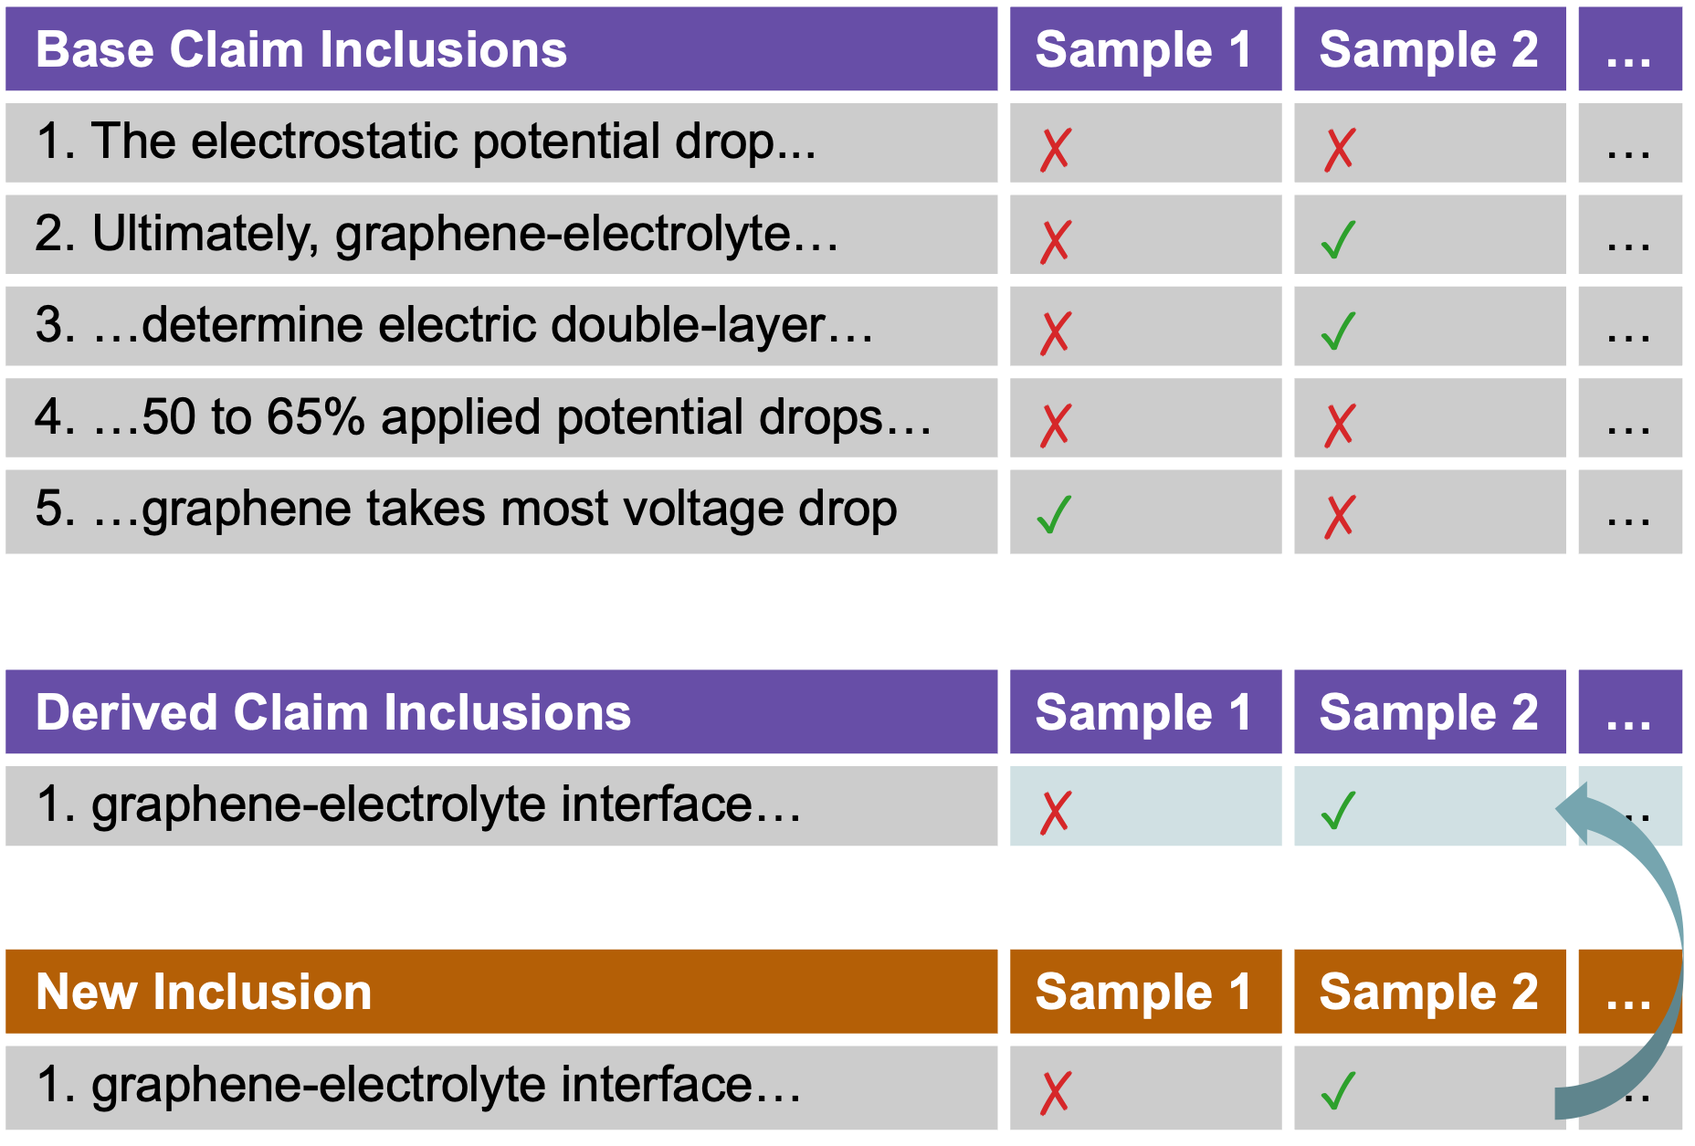
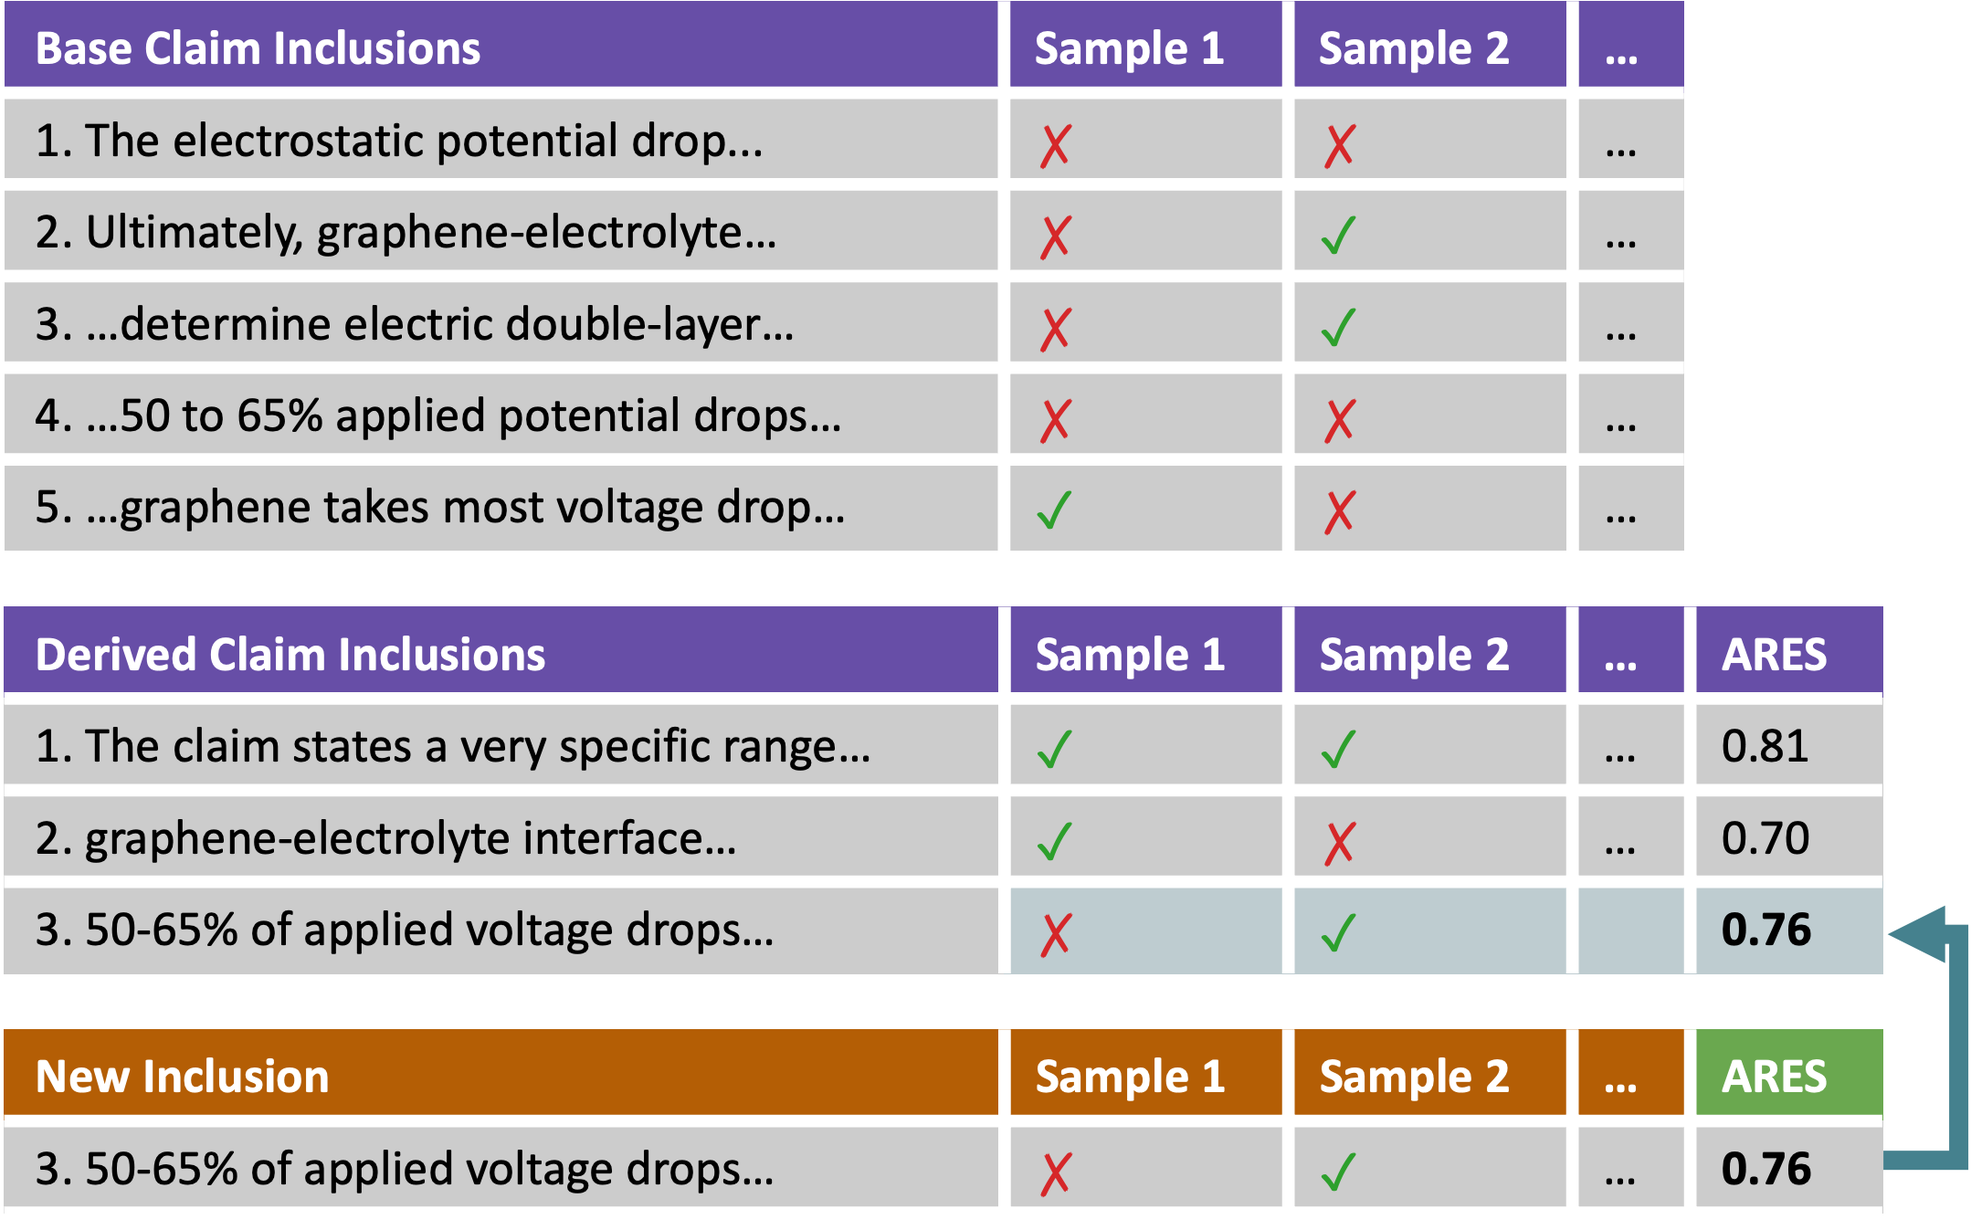
Update ares blog

diff --git a/_posts/2025-10-17-ares.md b/_posts/2025-10-17-ares.md
@@ -5,8 +5,8 @@ excerpt: "We certify the soundness of LLM reasoning chains with probabilistic gu
 header:
   overlay_color: "#000"
   overlay_filter: "0.5"
-  overlay_image: assets/images/ares/ares_banner.png
-  teaser: assets/images/ares/ares_banner.png
+  overlay_image: assets/images/ares/ares_banner_bw.png
+  teaser: assets/images/ares/ares_banner_bw.png
   actions:
     - label: "Paper"
       url: https://arxiv.org/abs/2507.12948
@@ -440,8 +440,8 @@ function plotBarGroupsFromData(d, divID, opts = {}) {
 <script src="https://cdn.plot.ly/plotly-2.29.1.min.js"></script>
 
 > Large language models often make reasoning errors.
-> However,  current LLM-based error detection methods often fail to detect propagated errors because earlier errors can corrupt judgments of downstream reasoning.
-> We introduce **Autoregressive Reasoning Entailment Stability (ARES)**, which evaluates LLM reasoning by estimating each step’s soundness conditioned on the judgements of earlier steps.
+> However,  current LLM-based error detection methods often fail to detect propagated errors because earlier errors can corrupt downstream judgments.
+> To address this, we introduce **Autoregressive Reasoning Entailment Stability (ARES)**, an algorithmic framework for measuring reasoning soundness with statistical guarantees.
 > ARES can reliably detect propagation errors in long reasoning chains that other methods fail to catch.
 
 Large Language Models (LLMs) often produce reasoning chains with errors that propagate, undermining the final outputs.
@@ -495,43 +495,67 @@ Let's look at a concrete example:
   </div>
 </div>
 
-A reasoning step could contain <span style='color:orange; font-weight:bold'>**ungrounded error**</span> that is incorrectly copying information from the context as in Step 3, <span style='color:red; font-weight:bold'>**invalid derivation**</span> mathematically or logically as in Step 4, or <span style='color:#880088; font-weight:bold'>**error propagation**</span> from previous mistakes as in Step 5.
+An <span style='color:orange; font-weight:bold'>**ungrounded error**</span> is when the LLM incorrectly copies information from the context.
+A reasoning step is an <span style='color:red; font-weight:bold'>**invalid derivation**</span> if it consists of a mathematically or logically false operation.
+Finally, a <span style='color:#880088; font-weight:bold'>**propagated error**</span> is a mistake incurred from previous steps.
+
+<!-- A reasoning step could contain <span style='color:orange; font-weight:bold'>**ungrounded error**</span> that is incorrectly copying information from the context as in Step 3, <span style='color:red; font-weight:bold'>**invalid derivation**</span> mathematically or logically as in Step 4, or <span style='color:#880088; font-weight:bold'>**error propagation**</span> from previous mistakes as in Step 5. -->
 
 Current error detection methods, such as LLM judges and Process Reward Models (PRMs), typically attempt to identify all errors at once.
 However, they often fail to detect propagated errors when distracted by invalid premises.
 
 In this work, we introduce **Autoregressive Reasoning Entailment Stability (ARES)**, a probabilistic framework inspired by human reasoning, which assesses each reasoning step inductively.
-It determines a step's soundness by calculating its entailment probability based _only_ on the set of preceding, sound claims, as shown in the figure below.
+It determines a step's soundness by calculating its entailment probability based _only_ on the set of preceding, sound claims.
+<!-- , as shown in the figure below. -->
 We certify ARES with an efficient sampling algorithm that avoids exponential growth in cost as the number of claims increases.
 
 Empirically, we find that our method accurately certifies both sound and unsound reasoning steps, particularly exceling in long chains prone to error propagation.
-<!-- Empirically, we find that our method accurately certifies both sound and unsound reasoning steps.
-It particularly excels in long chains prone to error propagation, where existing LLM-based approaches fail. -->
-
-<!-- ## Detecting Errors via Autoregressive Reasoning Entailment Stability (ARES) -->
-
-<!-- To address limitations of previous methods, we introduce ARES, a probabilistic framework inspired by human reasoning, which assesses each reasoning step inductively. -->
-<!-- To avoid being distracted by invalid claims like previous methods, we introduce ARES, a probabilistic framework inspired by human reasoning, which assesses each reasoning step inductively. -->
 
 ## Detecting Errors via Autoregressive Reasoning Entailment Stability (ARES)
 
-ARES verifies a reasoning chain by assessing each step’s logical consistency with its preceding claims. In other words, it determines whether each derived claim can be justified from what has already been established as sound.
+A natural way to detect reasoning errors in language is through _entailment_: determining whether a hypothesis logically follows from a given premise. We can ask an LLM to judge this entailment for each step in a reasoning chain.
 
-A reasoning chain can be considered as “hard-sound” if every derived claim is perfectly entailed by all preceding claims.
+However, LLMs can make mistakes, and using all previous steps as premises risks carrying earlier errors forward. A more principled approach is to check each claim only against previously verified (sound) information, ensuring that unreliable statements are ignored when evaluating later ones.
 
-**Definition. [Hard Soundness]**  
-A reasoning chain is **hard sound** if all derived claims in the chain are entailed by preceding claims.  
-{: .notice--danger}
+The figure below illustrates this idea in a _binary_ setting: each derived claim is judged as either _sound (✓)_ or _unsound (✗)_ depending on whether it follows logically from the preceding sound claims.
 
-However, this definition is too rigid. We do not want to invalidate the entire reasoning chain because of a single early error, as LLMs can often self-correct in later steps.  
+{% include gallery id="gallery_algo" layout="" caption="**Autoregressive Reasoning Entailment Stability (ARES).** Each reasoning chain is decomposed into base and derived claims. ARES checks each derived claim step-by-step using only previously verified claims as premises. This figure shows the binary case; later we generalize it to probabilistic entailment." %}
 
-The figure below illustrates how ARES verifies reasoning chains by checking each derived claim against previously verified ones. In this **binary case**, a step is either judged sound (✓) or unsound (✗) depending on whether it follows logically from the preceding, sound claims.
+This binary version captures the essence of ARES, which is a way to trace where a reasoning chain remains sound and where it breaks. It’s intuitive, concrete, and easy to visualize, making it ideal for understanding the core mechanism before adding complexity.
+
+However, in natural language, entailment isn’t always black-and-white. For example, if it’s cloudy and the humidity is high, we might say there’s a 60 % chance it will rain, where the hypothesis is *partially* supported.
+
+To handle such uncertainty, we extend ARES to a probabilistic formulation. Instead of marking each step as simply sound or unsound, we estimate its expected entailment probability, conditioned on preceding sound claims. This defines the probabilistic soundness of each reasoning step, inspired by how humans naturally disregard dubious premises and reason under uncertainty.
+
+**Definition [Soundness]** A claim's *soundness* is how much it is entailed *on average* across all sound combinations of preceding claims. Its **reasoning stability rate** $\tau_k$ quantifies this probability for the $k$-th claim.  
+{: .notice--info}
+
+This probabilistic formulation brings two key benefits:  
+1. **Fuzzy entailment:** it models partial support rather than binary truth.  
+2. **Error tolerance:** by averaging entailment rates over subsets of sound claims, it mitigates the impact of earlier mistakes.
+
+<!-- ## Detecting Errors via Autoregressive Reasoning Entailment Stability (ARES)
+
+An intuitive tool to use to detect natural language errors is entailment, which determines whether a hypothesis holds given a premise.
+We can use an LLM to judge the entailment.
+A natural thought for judging a reasoning chain would be checking the entailment of a claim given all preceding claims as the premise.
+
+However, as LLMs can make errors, judging entailment for later claims with such unsound information in the premise is unreliable.
+It would then be more principled to use only previous sound information as the premise.
+
+In addition, entailment for natural language is often fuzzy.
+For example, given that it’s cloudy and the humidity is high, we might say there’s about a 60% chance it will rain.
+In natural language, entailment isn't always black and white; it often reflects degrees of likelihood rather than absolute truth.
+
+One natural way to both be error resistent and capture fuzziness is to use a probabilistic entailment model and certify the soundness of claims inductively.
+
+The figure below illustrates how ARES verifies reasoning chains by checking each derived claim against previously verified ones. In this **binary case** for conceptualization, a step is either judged sound (✓) or unsound (✗) depending on whether it follows logically from the preceding, sound claims.
 
 {% include gallery id="gallery_algo" layout="" caption="**Autoregressive Reasoning Entailment Stability (ARES).** When verifying a reasoning chain, we can break it down into base claims and derived claims. ARES checks each derived claim step-by-step using previously verified claims as premises. This figure shows the binary case; later we generalize it to probabilistic entailment." %}
 
-However, even this binary version remains overly discrete. It does not capture uncertainty in borderline entailment cases, where a claim may be only _partially supported_ by its premises. Moreover, real-world LLMs rarely meet this strict binary criterion due to linguistic ambiguity.
+<!-- However, even this binary version remains overly discrete. It does not capture uncertainty in borderline entailment cases, where a claim may be only _partially supported_ by its premises. Moreover, real-world LLMs rarely meet this strict binary criterion due to linguistic ambiguity. -->
 
-Fortunately, our [previous work](https://debugml.github.io/soft-stability/) provides the right vocabulary to express this concept probabilistically. The key idea is to evaluate the soundness of each reasoning step based on its **expected entailment probability**, conditioned only on preceding sound claims. This approach is inspired by how [humans](https://wires.onlinelibrary.wiley.com/doi/full/10.1002/wcs.20) tend to ignore dubious statements when reasoning, and by entailment strategies found in [fuzzy logic](http://www.scholarpedia.org/article/Fuzzy_logic).  
+<!-- Fortunately, our [previous work](https://debugml.github.io/soft-stability/) provides the right vocabulary to express this concept probabilistically. The key idea is to evaluate the soundness of each reasoning step based on its **expected entailment probability**, conditioned only on preceding sound claims. This approach is inspired by how [humans](https://wires.onlinelibrary.wiley.com/doi/full/10.1002/wcs.20) tend to ignore dubious statements when reasoning, and by entailment strategies found in [fuzzy logic](http://www.scholarpedia.org/article/Fuzzy_logic).  
 
 This culminates in the definition of **soft soundness** below.
 
@@ -542,7 +566,7 @@ A claim is **soft sound** if it is entailed on average across all sound combinat
 The probabilistic formulation of soundness offers two main benefits:
 1. **Fuzzy entailment:** In real reasoning, entailment is not always black-and-white. A probabilistic model naturally accounts for this uncertainty.  
 2. **Error propagation tolerance:** By averaging entailment rates over all subsets of preceding sound claims, we can robustly estimate each claim’s soundness even when some earlier steps are erroneous.
-
+ --> 
 
 
 
@@ -554,57 +578,37 @@ If there are $m$ derived claims in a reasoning chain, then we need to check $\ma
 Fortunately, our [previous work](https://debugml.github.io/soft-stability/) addresses exactly this problem with an efficient algorithm to estimate soft stability at a high accuracy via sampling.
 We then adapt this algorithm to inductively certify soundness for each claim in a reasoning chain.
 
+
 <div class="notice--success">
-  <strong>Algorithm. Autoregressive Reasoning Entailment Stability (ARES) Estimation</strong><br>
-  Estimates the reasoning stability rate&nbsp;$\tau_k$ for each derived claim in a reasoning chain.<br><br>
+  <!-- <strong>Algorithm. Autoregressive Reasoning Entailment Stability (ARES) Estimation</strong>
+  Estimates the reasoning stability rate&nbsp;$\tau_k$ for each derived claim in a reasoning chain.<br><br> -->
+
+  <strong>Algorithm. Estimate Autoregressive Reasoning Entailment Stability (ARES) $\tau_k$ for each derived claim in a reasoning chain.</strong> <br><br>
+
+  Suppose the reasoning chain consists of base claims $(B_1, \ldots, B_n)$ and derived claims $(D_1, \ldots, D_m)$.<br>
 
   <div style="margin-left: 16px;">
-    <strong>Step 1.</strong> Sample $N$ subsets of the $n$ base claims (with replacement), 
-    where each base claim $C_i$ is included independently with prior probability&nbsp;$p_i$.<br><br>
+    <strong>Step 1.</strong> <em>Sample base claims as premises.</em><br>
+    Draw $N$ random subsets of the $n$ base claims, where each $B_i$ is included independently with its prior probability&nbsp;$p_i$.<br><br>
 
-    <strong>Step 2.</strong> For each derived claim $k = 1, \ldots, m$:<br>
+    <strong>Step 2.</strong> <em>Iterate through all derived claims $D_k$, from $k = 1$ to $m$:</em><br>
     <div style="margin-left: 20px;">
-      (a) For each sample, compute the entailment probability&nbsp;$p_{n+k}$ of the $k$-th claim 
-      given the currently included claims, and estimate&nbsp;$\hat{\tau}_k = \frac{1}{N}\sum_j p_{n+k}^{(j)}$.<br>
-      (b) Include the $k$-th claim in each sample for subsequent steps with probability&nbsp;$p_{n+k}$ 
-      (Bernoulli sampling).<br>
+      <strong>(a)</strong> For each sample, compute the entailment probability&nbsp;$p_k$ that the current derived claim $D_k$ is supported by the included previous claims (bases and prior derived claims).<br>
+      <strong>(b)</strong> Average these entailment probabilities across all $N$ samples to estimate its reasoning stability rate&nbsp;($\tau_k$).<br>
+      <strong>(c)</strong> For future steps, include this new derived claim in each sample with probability&nbsp;$p_k$ (Bernoulli sampling).<br>
+      <strong>(d)</strong> Repeat until all derived claims are evaluated.<br>
     </div>
   </div>
 
-  <br>
   <div style="margin-left: 16px;">
-    <strong>Guarantee.</strong>  
-    If $N \ge \frac{\log(2/\delta)}{2\varepsilon^2}$, then with probability at least $1 - \delta$,  
-    the estimation error satisfies&nbsp;$|\hat{\tau}_r - \tau_r| \le \varepsilon$ for any claim&nbsp;$r$.
+    <strong>Guarantee.</strong>
+    If the number of samples satisfies&nbsp;$N \ge \frac{\log(2/\delta)}{2\varepsilon^2}$,  
+    then with probability at least&nbsp;$(1 - \delta)$, the estimated stability rate&nbsp;$\hat{\tau}_r$  
+    for any claim&nbsp;$r$ satisfies&nbsp;$|\hat{\tau}_r - \tau_r| \le \varepsilon$.
   </div>
 </div>
 
 
-<!-- <div class="notice--success">
-  <strong>Algorithm. Autoregressive Reasoning Entailment Stability (ARES) Estimation</strong><br>
-  Estimates the reasoning stability rate&nbsp;$\tau_k$ for each derived claim in a reasoning chain.<br><br>
-
-  <div style="margin-left: 16px;">
-    <strong>Step 1.</strong> Sample (uniformly, with replacement) $N$ perturbations of the $n$ base claims, 
-    where each base claim $C_i$ is included with prior probability&nbsp;$p_i$.<br><br>
-
-    <strong>Step 2.</strong> For each derived claim $k = 1, \ldots, m$:<br>
-    <div style="margin-left: 20px;">
-      (a) For each sampled perturbation up till the $k-1$-th derived claim, compute the entailment probability&nbsp;$p_{n+k}$ of the $k$-th claim, 
-      and estimate $\hat{\tau}_k$ by averaging over all $N$ samples.<br>
-      (b) For each sample, include the $k$-th claim for subsequent steps with probability&nbsp;$p_{n+k}$ 
-      (Bernoulli sampling).<br>
-    </div>
-  </div>
-
-  <br>
-  <div style="margin-left: 16px;">
-    <strong>Guarantee.</strong>  
-    If $\hat{\tau}_r$ is computed with $N \ge \frac{\log(2/\delta)}{2\varepsilon^2}$ samples, 
-    then with probability at least $1 - \delta$,  
-    the estimation error satisfies $\lvert \hat{\tau}_r - \tau_r \rvert \le \varepsilon$.
-  </div>
-</div> -->
 
 This algorithm is illustrated in the following example.
 First, we randomly sample inclusion of base claims based on prior probabilities for $N$ samples. 
@@ -624,14 +628,7 @@ caption=""
 %}
 
 The ARES score for that claim is then the average of all those entailment rates for all the samples.
-
-{% include gallery 
-id="gallery_average_entailment"
-layout=""
-caption=""
-%}
-
-Then, we sample from that entailment rate for each sample to decide whether or not to include the specific claim when certifying the next claim.
+In parallel, we sample from the entailment rate for the claim in each sample to decide whether or not to include it when certifying future claims for that sample.
 
 {% include gallery 
 id="gallery_sample_inclusion_derived_claims"
@@ -639,19 +636,14 @@ layout=""
 caption=""
 %}
 
-Now we have decided if we want to include this new derived claim in each sample.
+Now that we have decided if we want to include this new derived claim in each sample, we can then use the inclusion/exclusion of the new claim to compute the estimated soundness rate of the next derived claim. 
+
 {% include gallery 
 id="gallery_iteration_1_complete"
 layout=""
 caption=""
 %}
 
-We can then do this process again to compute the estimated soundness rate of the next derived claim. 
-{% include gallery 
-id="gallery_iteration_2_start"
-layout=""
-caption=""
-%}
 
 We do this iteratively from the first derived claim to the last, until all claims in the reasoning chain is certified.
 
@@ -1201,7 +1193,7 @@ In this blog post, we showed that ARES offers a novel approach to inductively as
 It is sample efficient and provides a more principled and reliable method for detecting errors in reasoning chains.
 
 
-For more details in thoeretical proofs and quantitative experiments, see our [paper](https://arxiv.org/abs/2507.12948) and [code](https://github.com/fallcat/ares).
+For more details, see our [paper](https://arxiv.org/abs/2507.12948) and [code](https://github.com/fallcat/ares).
 
 
 ## Citation

diff --git a/_posts/2023-10-26-sum-of-parts.md b/_posts/2023-10-26-sum-of-parts.md
@@ -1,5 +1,5 @@
 ---
-title: "Sum-of-Parts Models: Faithful Attributions for Groups of Features"
+title: "Sum-of-Parts: Self-Attributing Neural Networks with End-to-End Learning of Feature Groups"
 layout: single
 excerpt: "Overcoming fundamental barriers in feature attribution methods with grouped attributions"
 header:
@@ -419,20 +419,22 @@ We can see the distribution of weights in the following histograms:
 The first histogram shows that voids have more high weights in the 0.90-1.00 bin for predicting $\Omega_m$.
 Also, clusters have more low weights in the 0~0.1 bin for predicting $\sigma_8$ as in the second histogram.
 
-
+Note: As the findings are dependent on the model, and our latest results have thus changes. Future work should explore more robust findings applicable to different models.
 
 ## Conclusion
 In this blog post, we show that group attributions can overcome a fundamental barrier for feature attributions in satisfying faithfulness perturbation tests.
 Our Sum-of-Parts models generate groups that are semantically meaningful to cosmologists and revealed new properties in cosmological structures such as voids and clusters.
 
-For more details in thoeretical proofs and quantitative experiments, see our [paper](https://arxiv.org/abs/2310.16316) and [code](https://github.com/DebugML/sop).
+For more details in theoretical proofs and quantitative experiments, see our [paper](https://arxiv.org/abs/2310.16316) and [code](https://github.com/DebugML/sop).
 
 ### Citation
-@misc{you2023sumofparts,
-    title={Sum-of-Parts Models: Faithful Attributions for Groups of Features},
-    author={Weiqiu You and Helen Qu and Marco Gatti and Bhuvnesh Jain and Eric Wong},
-    year={2023},
-    eprint={2310.16316},
-    archivePrefix={arXiv},
-    primaryClass={cs.LG}
+```
+@inproceedings{
+you2025sumofparts,
+title={Sum-of-Parts: Self-Attributing Neural Networks with End-to-End Learning of Feature Groups},
+author={Weiqiu You and Helen Qu and Marco Gatti and Bhuvnesh Jain and Eric Wong},
+booktitle={Forty-second International Conference on Machine Learning},
+year={2025},
+url={https://openreview.net/forum?id=r6y9TEdLMh}
 }
+```
